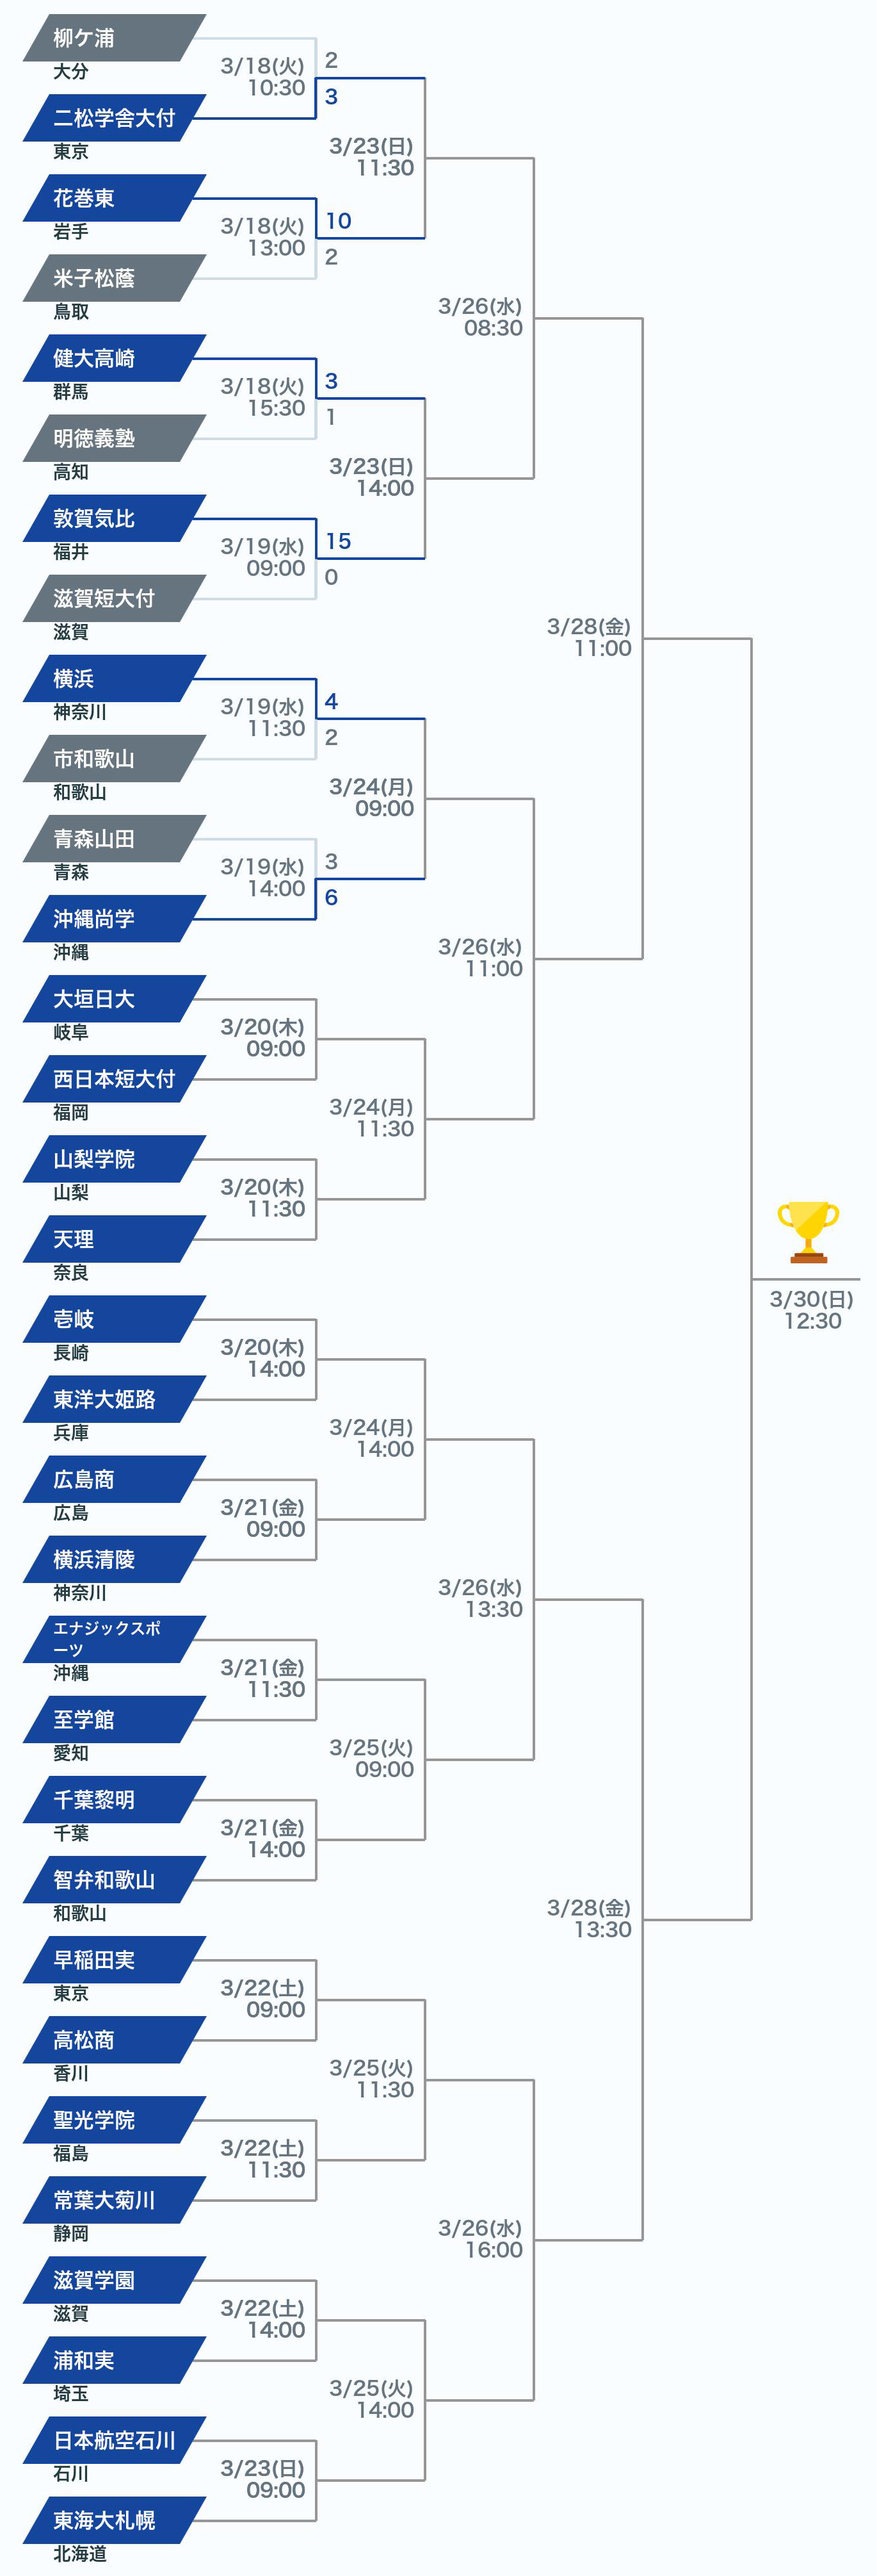
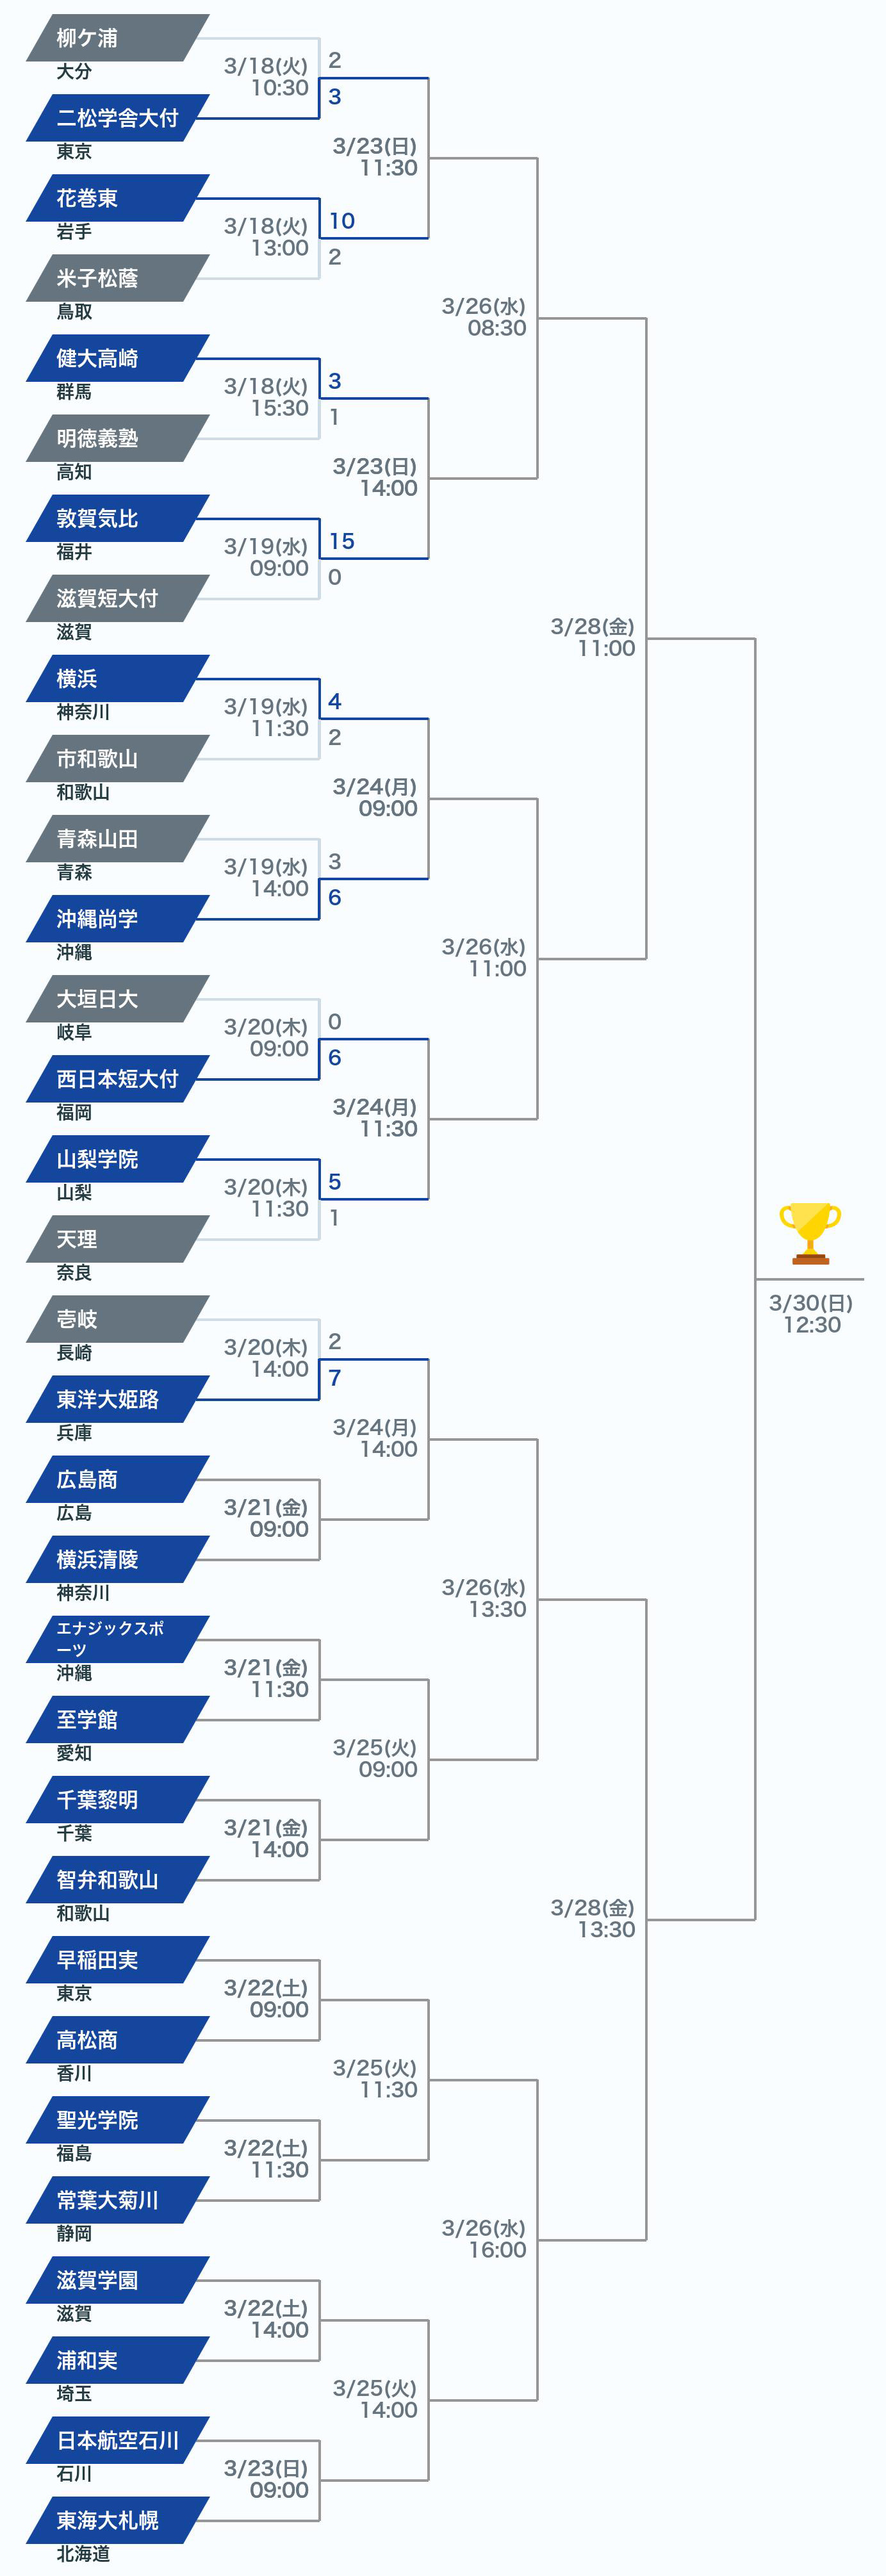
320の結果を反映しました

diff --git a/index.html b/index.html
@@ -143,7 +143,10 @@
               <tr>
                 <td style="padding: 8px 0">綾</td>
                 <td>東洋大姫路</td>
-                <td>大垣日大</td>
+                <td class="gray">
+                  大垣日大
+                  <p class="text-small">(1回戦 西日本短大付 0 - 6)</p>
+                </td>
               </tr>
             </table>
           </div>
